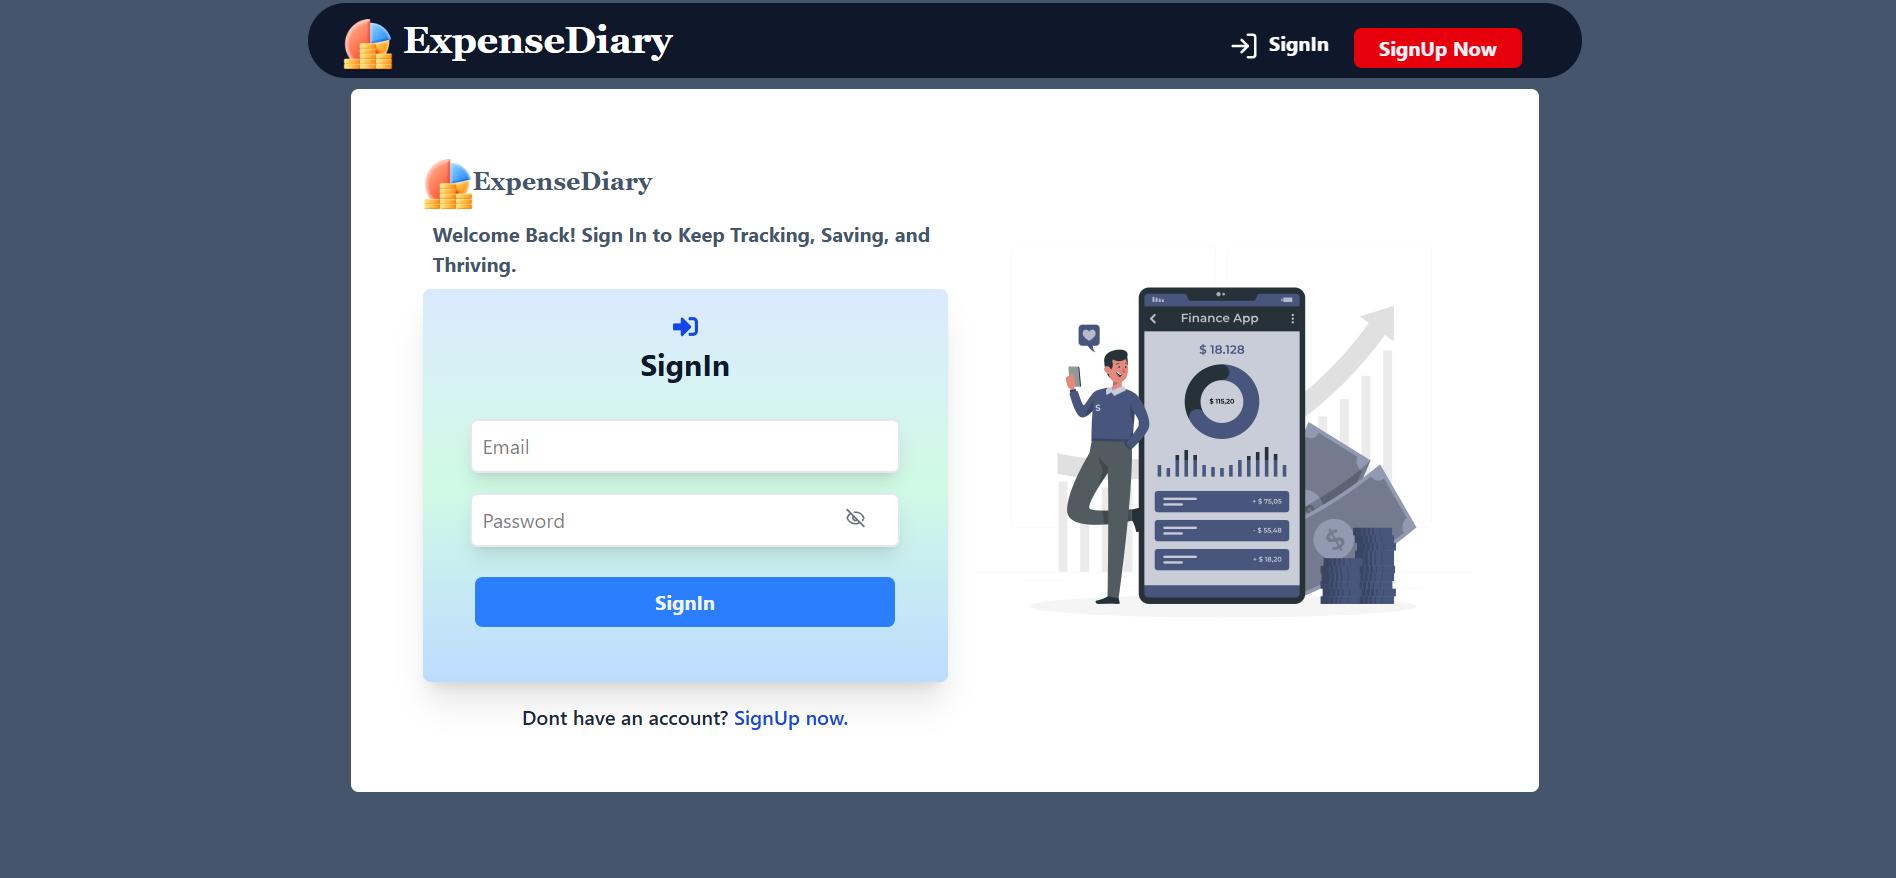
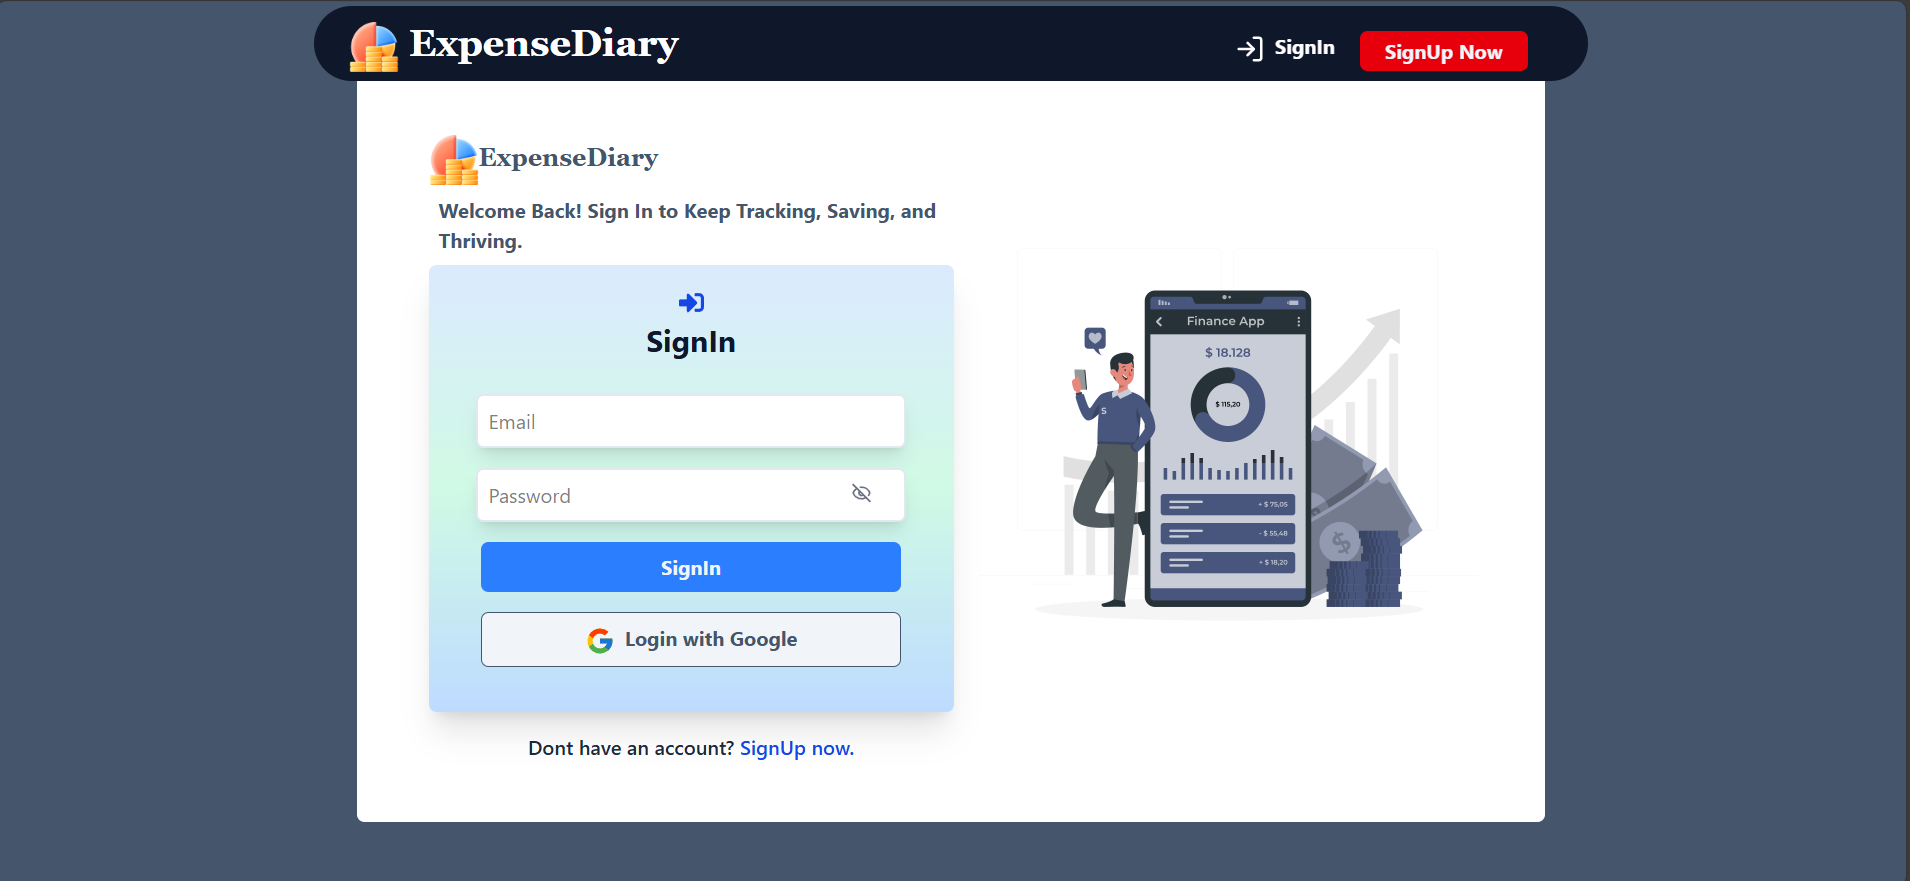
README updated

diff --git a/server/config/passport.js b/server/config/passport.js
@@ -1,6 +1,8 @@
 import passport from "passport";
 import { Strategy as GoogleStrategy } from "passport-google-oauth20";
 import User from "../models/User.js";
+import sendMail from "../Mail/sendMail.js";
+import htmlBody from "../Mail/mailBody.js";
 
 passport.use(
   new GoogleStrategy(
@@ -22,6 +24,7 @@ passport.use(
             name: profile.displayName,
             email: email
           });
+          sendMail(email, `Welcome to ExpenseDiary ${profile.displayName}`, "", htmlBody(profile.displayName));
         }
 
         return cb(null, user, { message: "Login successful" });

diff --git a/client/src/components/GoogleSuccess.jsx b/client/src/components/GoogleSuccess.jsx
@@ -26,7 +26,7 @@ const GoogleSuccess = () => {
           if(res.data.success){
             setUser(res.data.data);
             localStorage.setItem("currentuser", JSON.stringify(res.data.data));
-            navigate("/");
+            navigate("/dashboard");
           }
         } catch (error) {
             console.log("error in googlesuccess", error);

diff --git a/README.MD b/README.MD
@@ -19,8 +19,12 @@ Track your income and expenses with ease! A full-stack Expense Tracker web appli
 
 ## 🚀 Features
 
-- 🔐 User Authentication (Signup/Signin)
+- 🔐 User Authentication
+     - Email/password using JWT
+     - Google Login using Passport.js
+- 📨 Welcome Email sent via Nodemailer when a user signs up or logs in for the first time
 - ➕ Add, Edit, & ❌ Delete transactions (CRUD)
+- 🗄 Redis Caching for faster API responses and reduced database load
 - 📂 Filter transactions by category
 - 💵 View total balance, income, and expenses
 - 📱 Responsive UI (Mobile & Desktop)
@@ -36,11 +40,18 @@ Track your income and expenses with ease! A full-stack Expense Tracker web appli
 - MongoDB
 - JWT Authentication
 - bcrypt for password hashing
+- Passport + passport-google-oauth20 (Google Login)
+- Nodemailer for email notifications
+- Redis for caching
 
 ### 🖥 Frontend
 - React.js
 - Tailwind CSS
-- Axios
-- Chart.js
+- Axios for API calls
+- Chart.js for data visualization
+- react-hot-toast (Notifications)
+- react-icons (Icons)
+- framer-motion (Animations)
+- react-router-dom (Routing)
 
 ---
